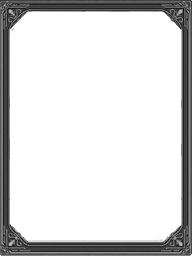
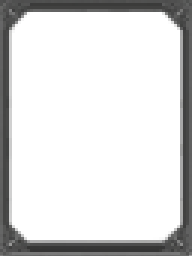
better than nothing

Changed region(s): [[0.0, 0.0, 1.0, 1.0]]

diff --git a/src/app/globals.css b/src/app/globals.css
@@ -224,7 +224,16 @@ h3 {
     border-image-outset: 0;
     border-image-repeat: stretch;
     image-rendering: pixelated;
-    background: rgba(10, 8, 6, 0.92);
+    /* Same checkerboard-mosaic trick as the emblem tint (repeating-conic-gradient tiled small)
+       instead of a flat fill, plus a torch-orange glow (same rgba(255,150,60,...) as .torch)
+       positioned upper-left to match the light-source convention used everywhere else on the
+       card (the frame's rim-lit outline, the emblem's/gloss's own upper-left highlight) — reads
+       as the torchlight actually reaching into the card rather than every card being one flat,
+       uniformly dark rectangle. */
+    background:
+        radial-gradient(circle at 28% 18%, rgba(255, 150, 60, 0.16) 0%, transparent 60%),
+        repeating-conic-gradient(rgba(255, 255, 255, 0.04) 0% 25%, transparent 0% 50%) 0 0 / 6px 6px,
+        rgba(10, 8, 6, 0.92);
     padding: 1.25rem 0.9rem 0.85rem;
     text-align: center;
     box-shadow: inset 0 0 18px rgba(0, 0, 0, 0.55);
@@ -278,6 +287,70 @@ h3 {
     .potion-card {
         animation: none;
     }
+}
+
+/* Tints frame.png's neutral gray/silver border warm gold, with an animated specular glint
+   sweeping across it, instead of leaving the frame a flat uncolored bitmap. mask-image reuses
+   frame.png itself as the mask source — its alpha channel *is* the border ring (transparent in
+   the middle), so this overlay lands exactly on the border art with no separate mask asset
+   needed. mix-blend-mode: overlay colorizes the same way as the potion tint (§ .potion-art-tint):
+   the frame's own dark linework stays dark, its lighter linework picks up the gold wash, and the
+   moving bright band reads as a highlight glinting across polished metal. Two background layers,
+   so only the first (the glint) needs its position animated — the second (the gold wash) stays
+   put, hence two comma-separated values in every keyframe/position below. */
+.potion-card-frame-shine {
+    position: absolute;
+    /* inset: 0 on an absolutely-positioned element resolves against the containing block's
+       *padding* edge, not its border edge — so this landed inside the card's content area,
+       missing the border where frame.png actually renders. These negative insets (matching
+       .potion-card's own border-width exactly) expand it back out to the full border-box. */
+    top: -12px;
+    right: -11px;
+    bottom: -16px;
+    left: -10px;
+    pointer-events: none;
+    -webkit-mask-image: url("/assets/frame.png");
+    mask-image: url("/assets/frame.png");
+    -webkit-mask-size: 100% 100%;
+    mask-size: 100% 100%;
+    -webkit-mask-repeat: no-repeat;
+    mask-repeat: no-repeat;
+    mix-blend-mode: overlay;
+    background:
+        linear-gradient(115deg, transparent 30%, rgba(255, 255, 255, 0.95) 48%, transparent 66%),
+        rgba(224, 168, 62, 0.45);
+    background-size:
+        320% 320%,
+        100% 100%;
+    background-repeat: no-repeat;
+    animation: frame-shine-sweep 4.5s ease-in-out infinite;
+}
+
+@keyframes frame-shine-sweep {
+    0%,
+    100% {
+        background-position:
+            -80% -80%,
+            0 0;
+    }
+    50% {
+        background-position:
+            180% 180%,
+            0 0;
+    }
+}
+
+@media (prefers-reduced-motion: reduce) {
+    .potion-card-frame-shine {
+        animation: none;
+        background-position:
+            50% 50%,
+            0 0;
+    }
+}
+
+.potion-card.out-of-stock .potion-card-frame-shine {
+    display: none;
 }
 
 .potion-icon-wrap {

diff --git a/src/components/PotionCard.tsx b/src/components/PotionCard.tsx
@@ -18,6 +18,9 @@ export default function PotionCard({ item, index }: { item: Item; index: number 
                 } as CSSProperties
             }
         >
+            {/* Tints the (otherwise neutral-gray) frame.png border warm gold, with an animated
+                specular glint sweeping across it — see globals.css for how the mask/blend work. */}
+            <span aria-hidden="true" className="potion-card-frame-shine" />
             <span className="potion-index">{String(index + 1).padStart(2, "0")}</span>
             <div className="potion-icon-wrap">
                 <PotionArt color={item.accentColor} emblem={item.emblem} className="potion-icon" />
